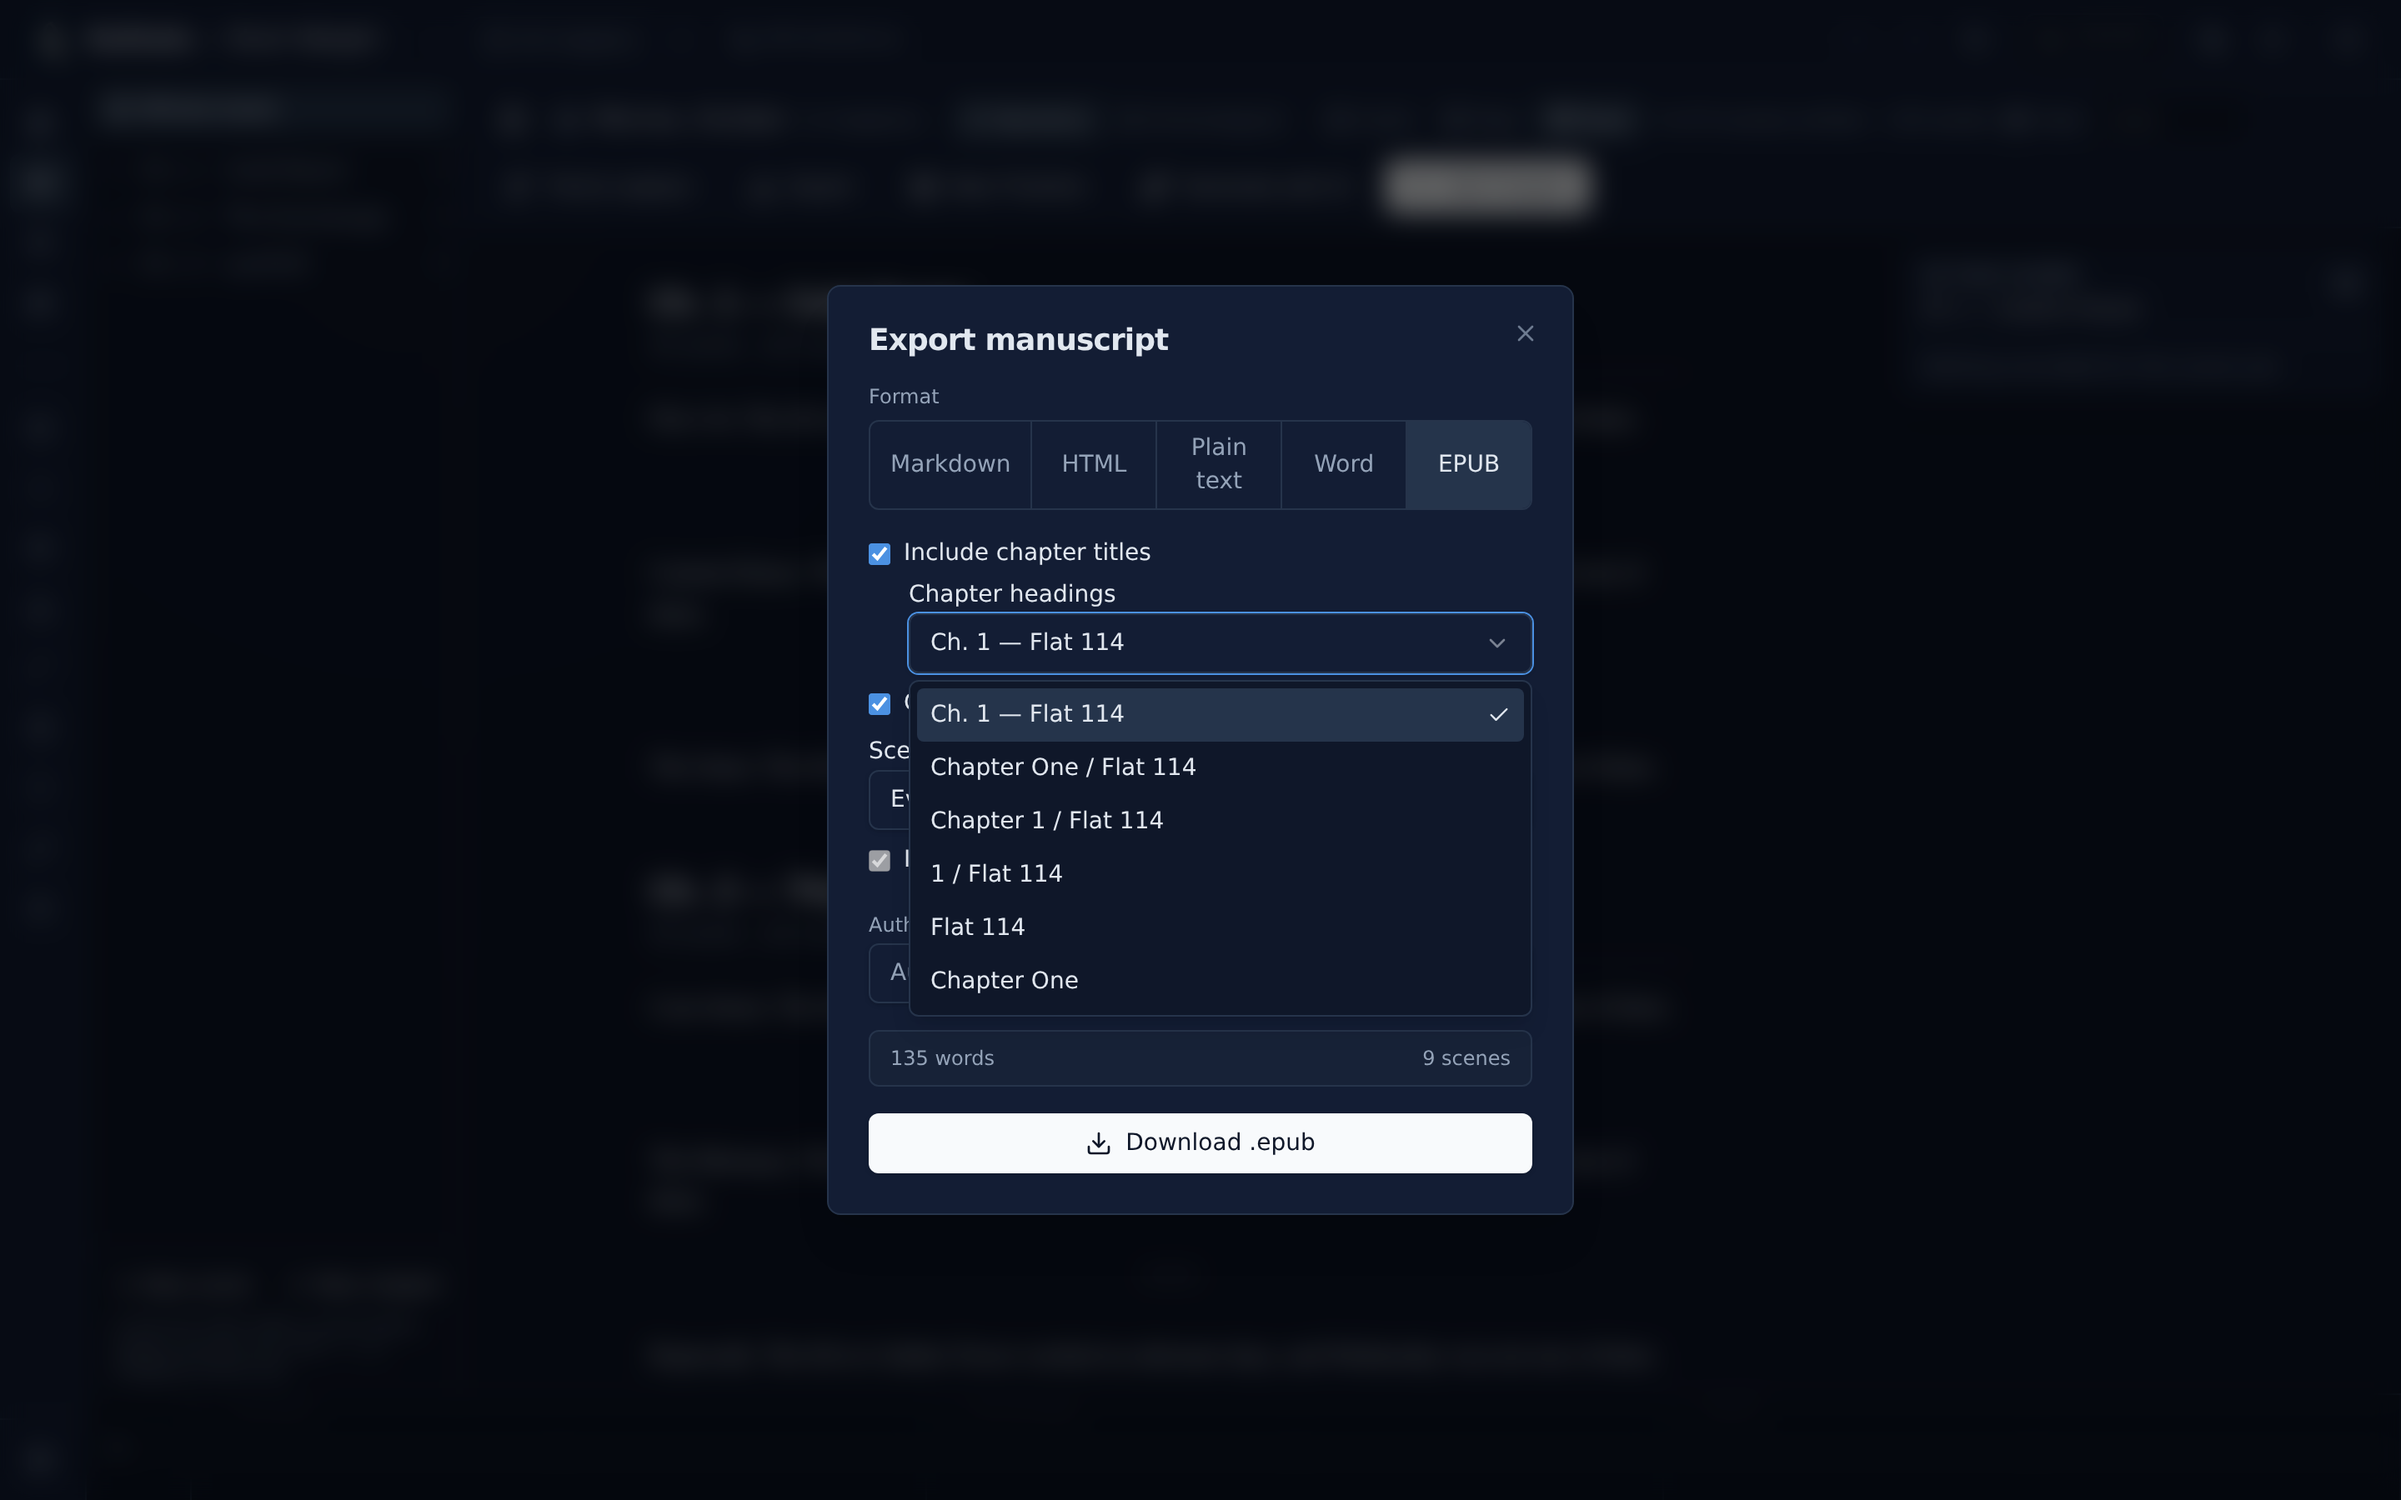
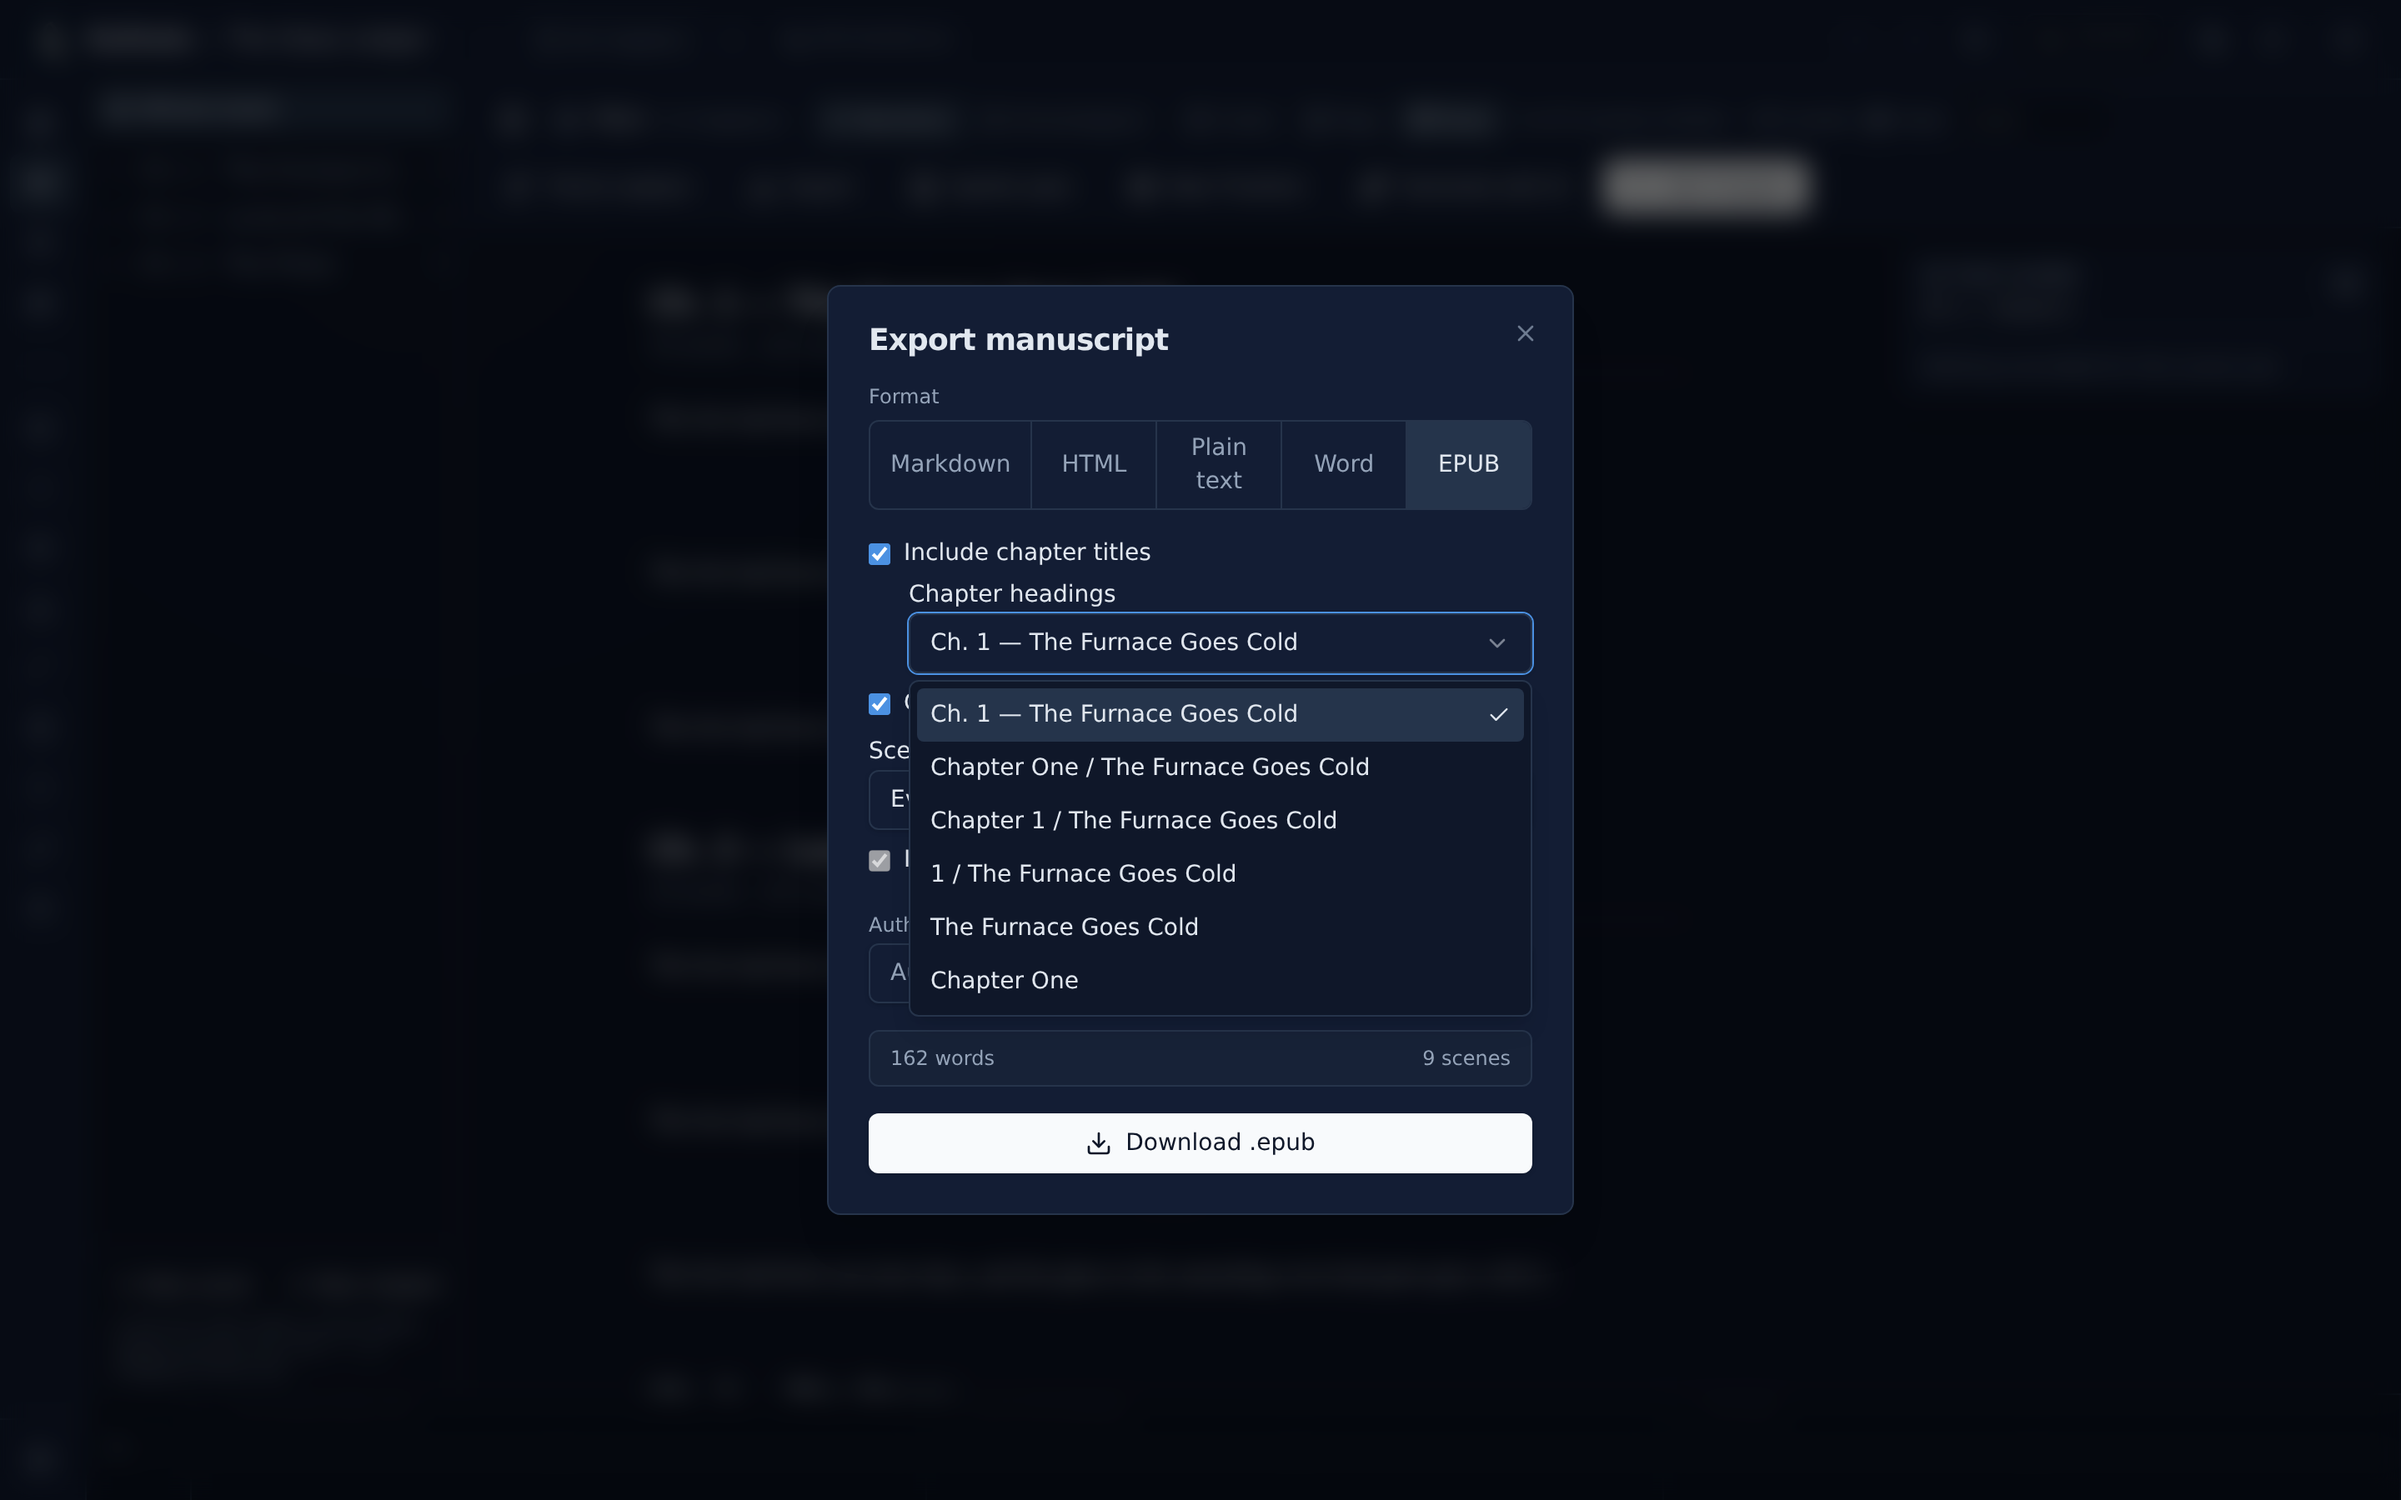
Export: the chapter-heading choices are shown on the book's own chapter
The chooser's examples were hardcoded to another book's chapter, "Flat 114",
and a writer stopped to wonder what it was (writer run 11, W-11). Each style
is now shown as the book's first titled chapter would be headed, with a
placeholder for a book with none. The guide's screenshot is retaken.

Claude-Session: https://claude.ai/code/session_012HJuZ3q12imk2q9iq8d945

Changed region(s): [[0.375, 0.4667, 0.5625, 0.6222], [0.5625, 0.0933, 0.7812, 0.1556], [0.4375, 0.4044, 0.5312, 0.4356]]

diff --git a/e2e/writerRun9Wishes.spec.ts b/e2e/writerRun9Wishes.spec.ts
@@ -214,9 +214,14 @@ test.describe('writer run 9’s wishes', () => {
     await expect(dialog.getByRole('button', { name: 'Markdown', exact: true })).toHaveAttribute('aria-pressed', 'true')
     await expect(headings).toHaveCount(0)
     await dialog.getByRole('button', { name: 'EPUB', exact: true }).click()
-    await expect(headings).toHaveAccessibleName(/Ch\. 1 — Flat 114/)
+    // Shown as this book's own first chapter would be headed, not another book's (run 11).
+    await expect(headings).toHaveAccessibleName(/Ch\. 1 — Cold Room/)
     await headings.click()
-    await page.getByRole('option', { name: 'Chapter One / Flat 114', exact: true }).click()
+    // Every choice is: none of them is headed by another book's chapter.
+    await expect(page.getByRole('option')).toHaveCount(6)
+    await expect(page.getByRole('option', { name: /Cold Room/ })).toHaveCount(5)
+    await expect(page.getByRole('option', { name: /Flat 114/ })).toHaveCount(0)
+    await page.getByRole('option', { name: 'Chapter One / Cold Room', exact: true }).click()
 
     const chosen = () => page.evaluate(async (id) => {
       const db = (window as { __pwdb?: never }).__pwdb as unknown as { worlds: { get: (id: string) => Promise<{ chapterHeading?: string }> } }
@@ -234,7 +239,7 @@ test.describe('writer run 9’s wishes', () => {
     await settle(page)
     await page.getByRole('button', { name: 'Export', exact: true }).click()
     await dialog.getByRole('button', { name: 'EPUB', exact: true }).click()
-    await expect(headings).toHaveAccessibleName(/Chapter One \/ Flat 114/)
+    await expect(headings).toHaveAccessibleName(/Chapter One \/ Cold Room/)
   })
 
   test('the Calendar’s columns are the week’s, and each 1st sits under its weekday; with no week, as before', async ({ page }) => {

diff --git a/src/lib/chapterHeading.ts b/src/lib/chapterHeading.ts
@@ -11,15 +11,21 @@
 
 export type ChapterHeadingStyle = 'ch-title' | 'chapter-words-title' | 'chapter-figures-title' | 'number-title' | 'title' | 'chapter-words'
 
-/** The styles, in the order offered, each with an example for the chooser. */
-export const CHAPTER_HEADING_STYLES: ReadonlyArray<{ id: ChapterHeadingStyle; example: string }> = [
-  { id: 'ch-title', example: 'Ch. 1 — Flat 114' },
-  { id: 'chapter-words-title', example: 'Chapter One / Flat 114' },
-  { id: 'chapter-figures-title', example: 'Chapter 1 / Flat 114' },
-  { id: 'number-title', example: '1 / Flat 114' },
-  { id: 'title', example: 'Flat 114' },
-  { id: 'chapter-words', example: 'Chapter One' },
+/** The styles, in the order offered. */
+export const CHAPTER_HEADING_STYLES: readonly ChapterHeadingStyle[] = [
+  'ch-title', 'chapter-words-title', 'chapter-figures-title', 'number-title', 'title', 'chapter-words',
 ]
+
+/**
+ * A style as the chooser shows it: headed as the book's own first titled
+ * chapter would be, "Chapter One / The Furnace Goes Cold". The examples were
+ * another book's — "Flat 114" — and a writer stopped to wonder what Flat 114
+ * was (writer run 11). A book with no titled chapter gets a placeholder.
+ */
+export function headingExample(style: ChapterHeadingStyle, chapters: ReadonlyArray<{ number: number; title: string }>): string {
+  const first = chapters.find((c) => c.title.trim()) ?? { number: 1, title: 'Title' }
+  return chapterHeadingLines(style, first.number, first.title).join(' / ')
+}
 
 const ONES = ['Zero', 'One', 'Two', 'Three', 'Four', 'Five', 'Six', 'Seven', 'Eight', 'Nine', 'Ten',
   'Eleven', 'Twelve', 'Thirteen', 'Fourteen', 'Fifteen', 'Sixteen', 'Seventeen', 'Eighteen', 'Nineteen']

diff --git a/src/lib/__tests__/chapterHeading.test.ts b/src/lib/__tests__/chapterHeading.test.ts
@@ -1,5 +1,5 @@
 import { describe, it, expect } from 'vitest'
-import { chapterHeadingLabel, chapterHeadingLines, numberInWords } from '@/lib/chapterHeading'
+import { CHAPTER_HEADING_STYLES, chapterHeadingLabel, chapterHeadingLines, headingExample, numberInWords } from '@/lib/chapterHeading'
 import { compileManuscript, type BuiltManuscript } from '@/lib/manuscriptCompile'
 import { compileDocx, compileEpub } from '@/lib/manuscriptExport'
 
@@ -68,5 +68,22 @@ describe('the exports, headed', () => {
     expect(docx).toContain('>Ash</w:t>')
     expect(docx).not.toContain('Ch. 21')
     expect(dec.decode(compileDocx(manuscript))).toContain('Ch. 21 — Ash')
+  })
+})
+
+describe('headingExample', () => {
+  it('heads the book’s own first titled chapter, as the chooser shows each style (writer run 11)', () => {
+    const chapters = [{ number: 1, title: '' }, { number: 2, title: 'The Furnace Goes Cold' }]
+    expect(CHAPTER_HEADING_STYLES.map((s) => headingExample(s, chapters))).toEqual([
+      'Ch. 2 — The Furnace Goes Cold',
+      'Chapter Two / The Furnace Goes Cold',
+      'Chapter 2 / The Furnace Goes Cold',
+      '2 / The Furnace Goes Cold',
+      'The Furnace Goes Cold',
+      'Chapter Two',
+    ])
+  })
+  it('a placeholder, with no titled chapter to show', () => {
+    expect(headingExample('chapter-words-title', [])).toBe('Chapter One / Title')
   })
 })

diff --git a/src/features/manuscript/ExportManuscriptDialog.tsx b/src/features/manuscript/ExportManuscriptDialog.tsx
@@ -11,7 +11,7 @@ import { Select, SelectContent, SelectItem, SelectTrigger, SelectValue } from '@
 import type { EventStatus } from '@/types'
 import { plural } from '@/lib/plural'
 import { manuscriptFileName } from '@/lib/manuscriptFileName'
-import { CHAPTER_HEADING_STYLES, type ChapterHeadingStyle } from '@/lib/chapterHeading'
+import { CHAPTER_HEADING_STYLES, headingExample, type ChapterHeadingStyle } from '@/lib/chapterHeading'
 
 type ExportFormat = CompileFormat | 'docx' | 'epub'
 
@@ -178,7 +178,7 @@ export function ExportManuscriptDialog({
                     <SelectValue />
                   </SelectTrigger>
                   <SelectContent>
-                    {CHAPTER_HEADING_STYLES.map((s) => <SelectItem key={s.id} value={s.id}>{s.example}</SelectItem>)}
+                    {CHAPTER_HEADING_STYLES.map((id) => <SelectItem key={id} value={id}>{headingExample(id, manuscript.chapters)}</SelectItem>)}
                   </SelectContent>
                 </Select>
               </Field>

diff --git a/docs/GUIDE.md b/docs/GUIDE.md
@@ -2269,12 +2269,13 @@ when you are reading it — see [Writing on one page](#writing-on-one-page) and
   HTML never carry scene titles.
 
   **Chapter headings**, for every format but Markdown, says how each chapter is
-  headed: *Ch. 1 — Flat 114* as before; *Chapter One*, *Chapter 1* or *1* with
-  the title on its own line beneath; the title alone; or *Chapter One* alone.
+  headed, and shows each choice on your own book's first chapter: *Ch. 1 — The
+  Furnace Goes Cold* as before; *Chapter One*, *Chapter 1* or *1* with the title
+  on its own line beneath; the title alone; or *Chapter One* alone.
   The title alone suits a book whose chapters are already called *Chapter I*
   and so on, which would otherwise come out *Ch. 1 — Chapter I*. The choice is
   kept with the book, so the next export starts from it, and an EPUB's contents
-  use it on one line (*Chapter One: Flat 114*). Markdown keeps *Ch. 1 — Title*,
+  use it on one line (*Chapter One: The Furnace Goes Cold*). Markdown keeps *Ch. 1 — Title*,
   which is what **Import Manuscript** reads back.
 
   ![The export dialog, EPUB, with its chapter-heading styles open](images/96-chapter-headings.png)
